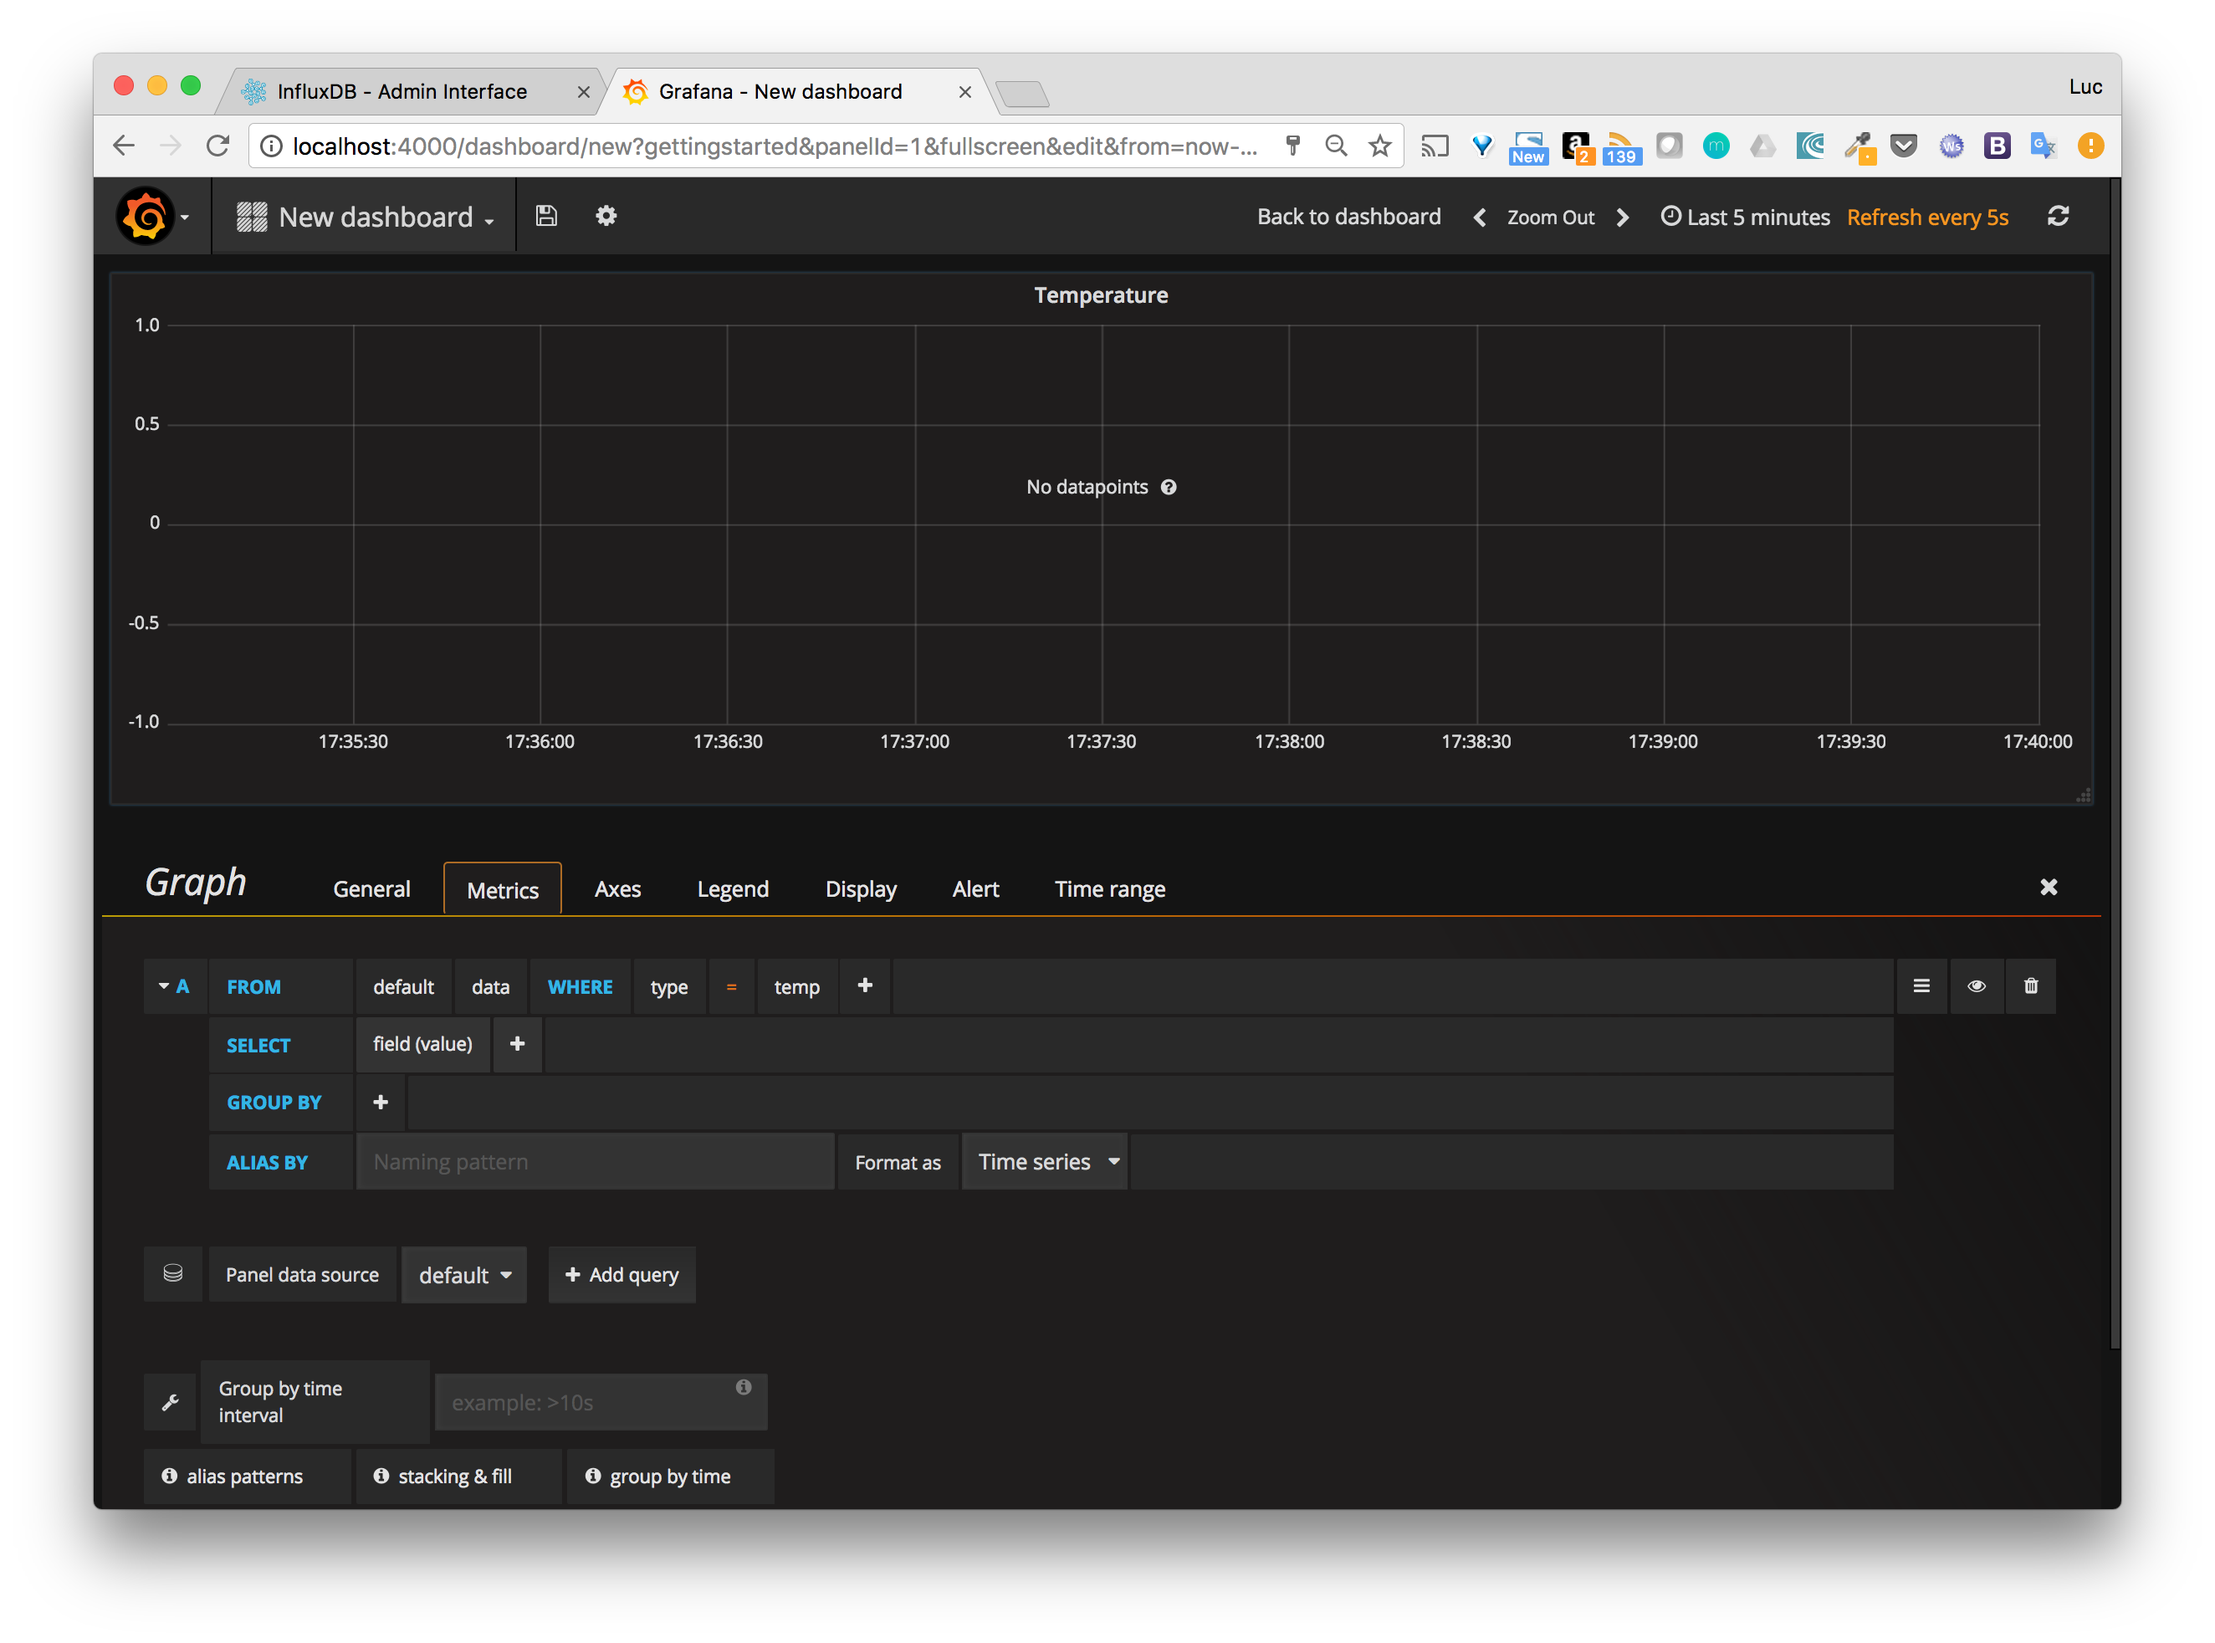
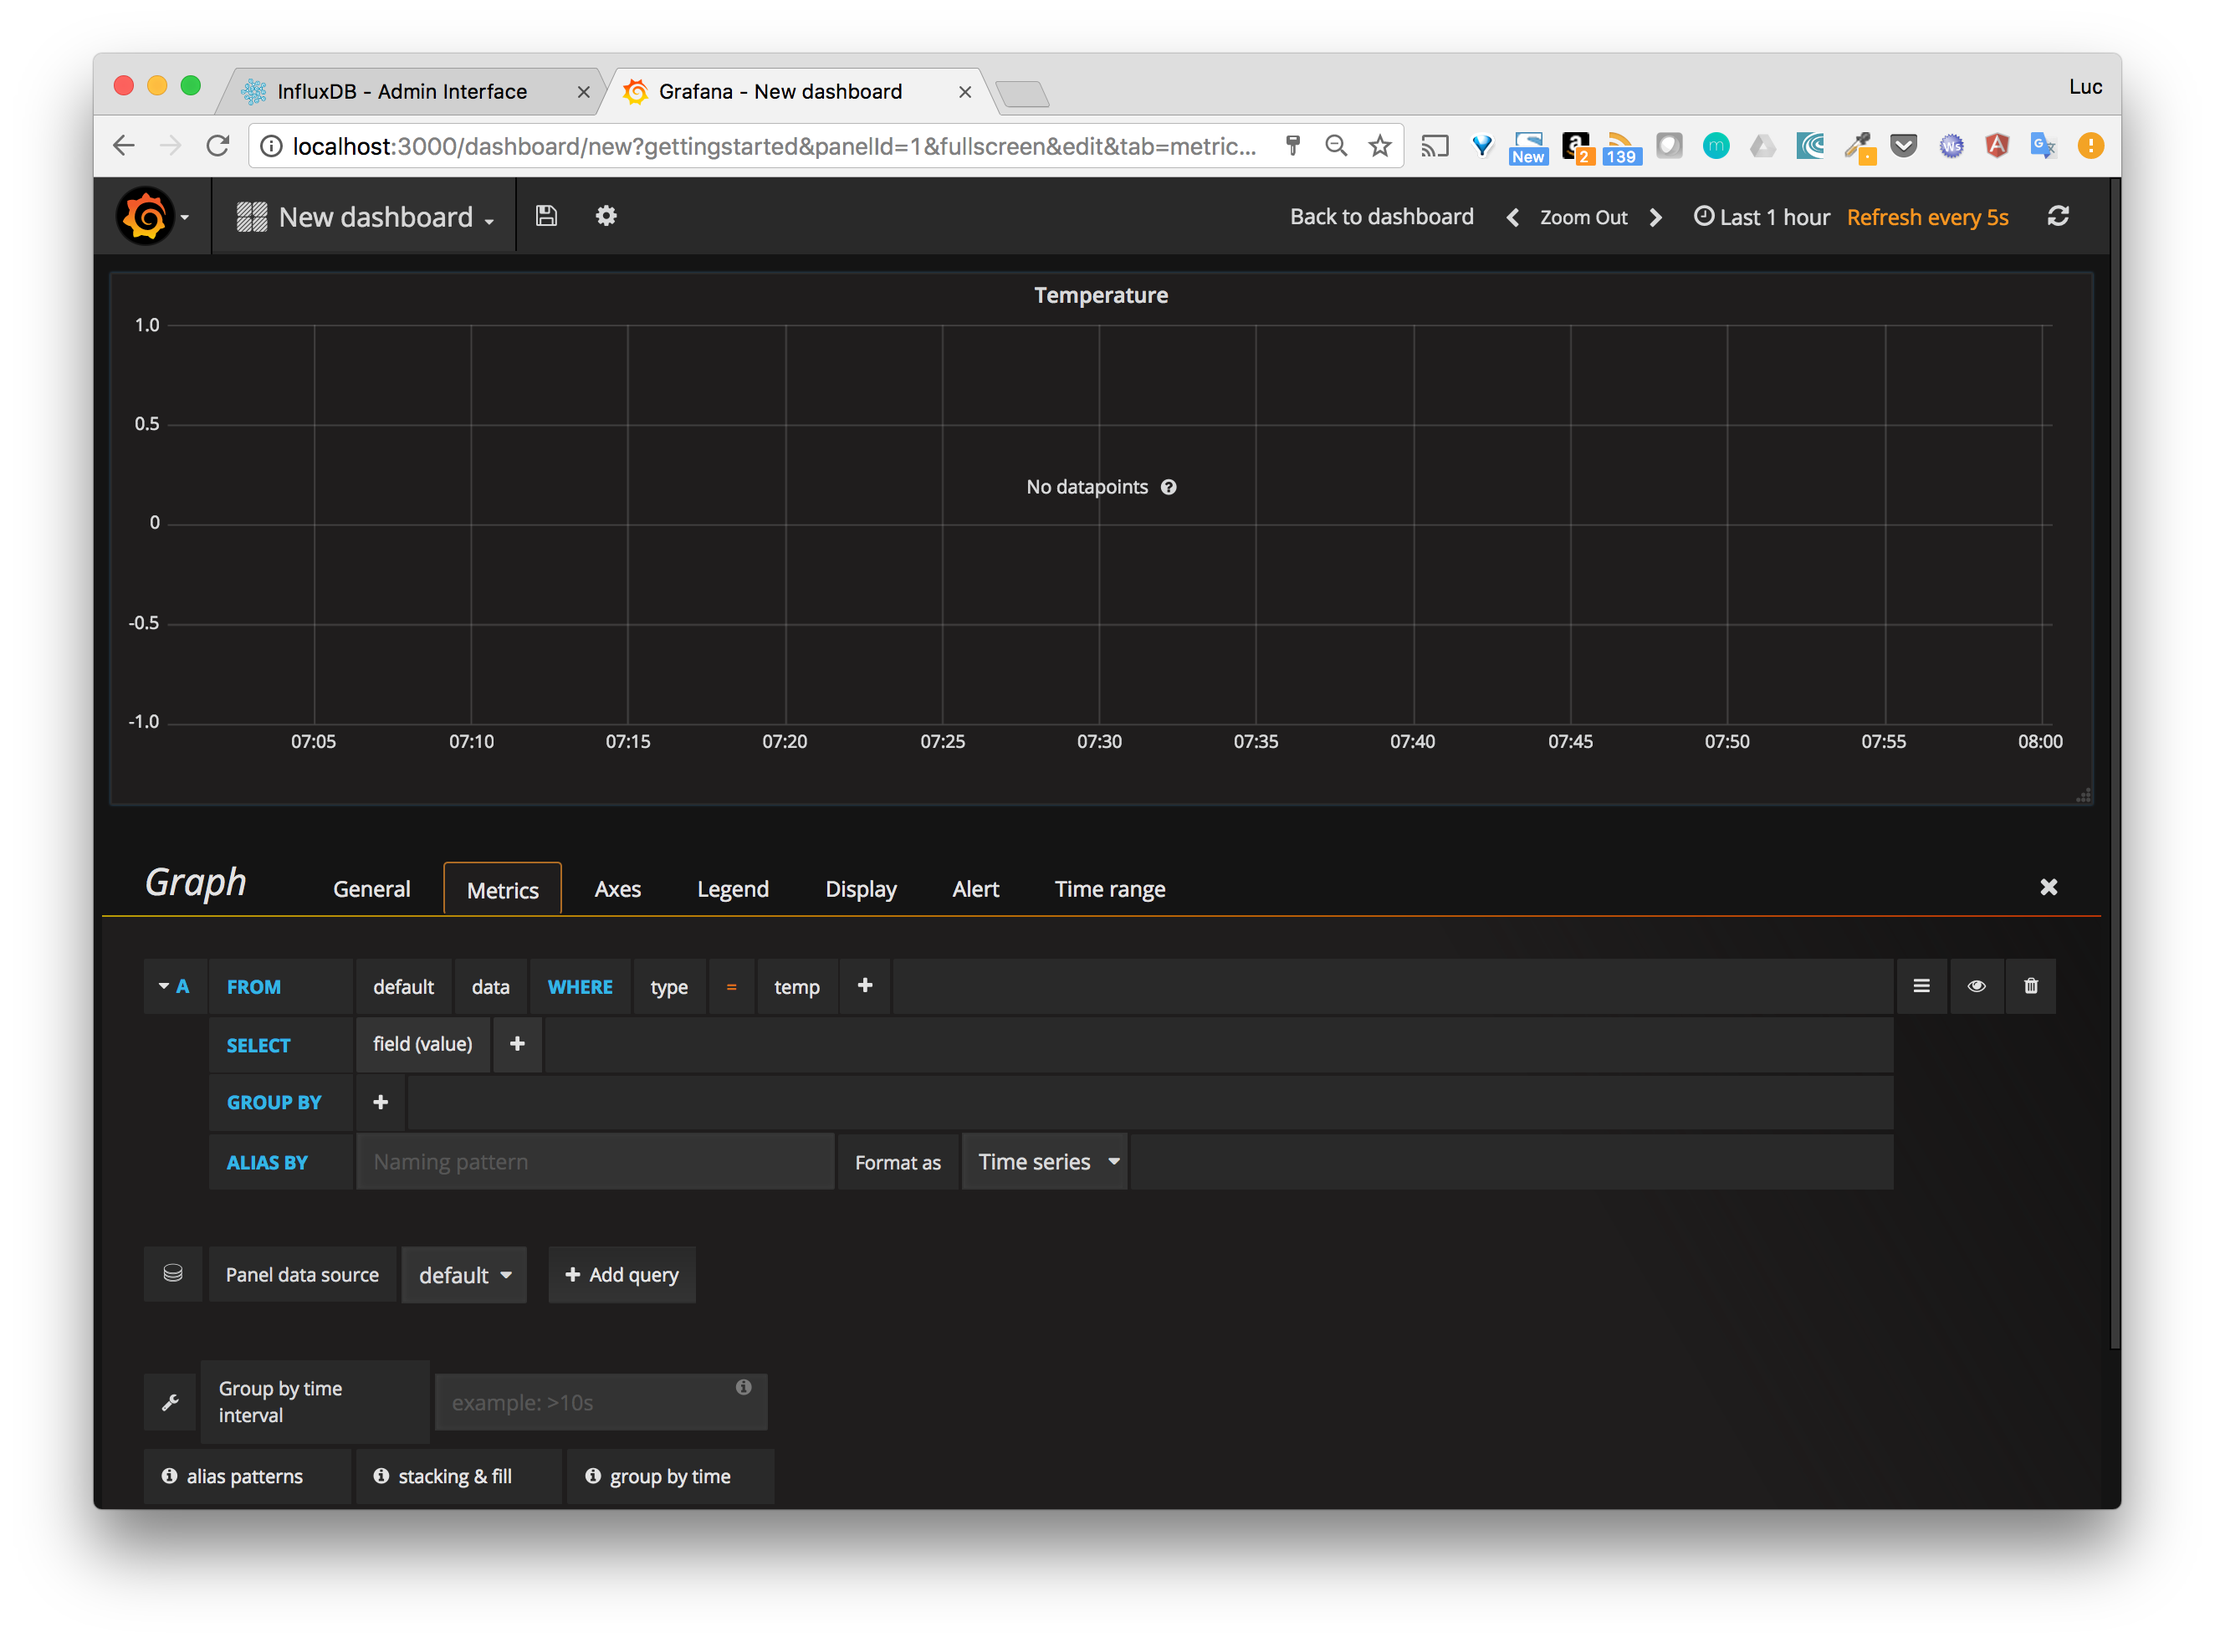
Have Grafana publishing port 3000

diff --git a/step6/README.md b/step6/README.md
@@ -15,6 +15,10 @@ We will see how easily this can be added to our Docker Compose application.
 
 ## About Grafana
 
+Grafana enables to create great looking dashboard, just have a look at the following one... neat is'nt it ?
+
+![Grafana dashboard example][./images/00-grafana-dashboard-example]
+
 Checking the official Grafana image from the [Docker Hub](https://hub.docker.com/r/grafana/grafana/) we get information on how to run the application and which port needs to be exposed.
 This is as easy as this:
 
@@ -42,7 +46,7 @@ Let's use the InfluxDB administration interface to create our database, named *i
 
 ## First step with Grafana
 
-The Grafana interface is available on port 4000 (port exposed in the docker-compose.yml file).
+The Grafana interface is available on port 3000 (port exposed in the docker-compose.yml file).
 The default administration credentials are *admin*/*admin*.
 
 ![Grafana login page](./images/02-grafana-admin.png)
